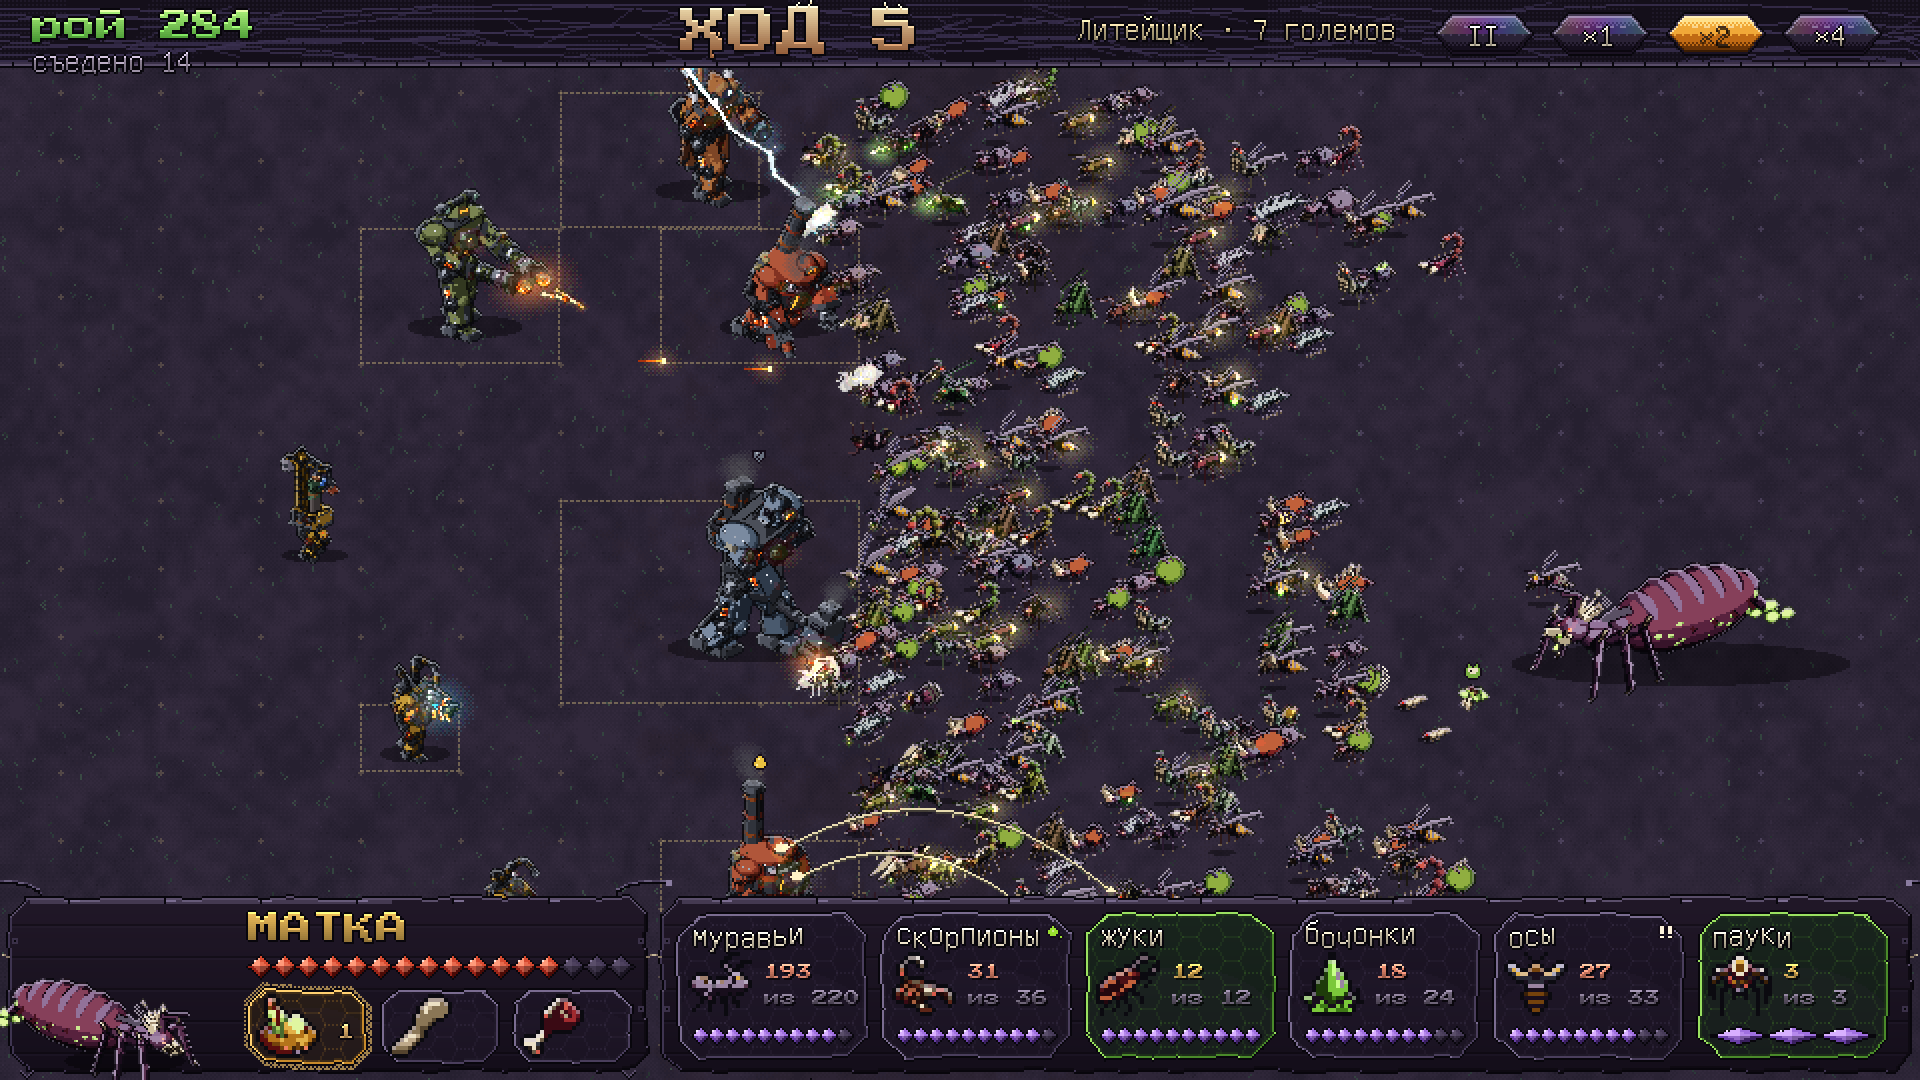
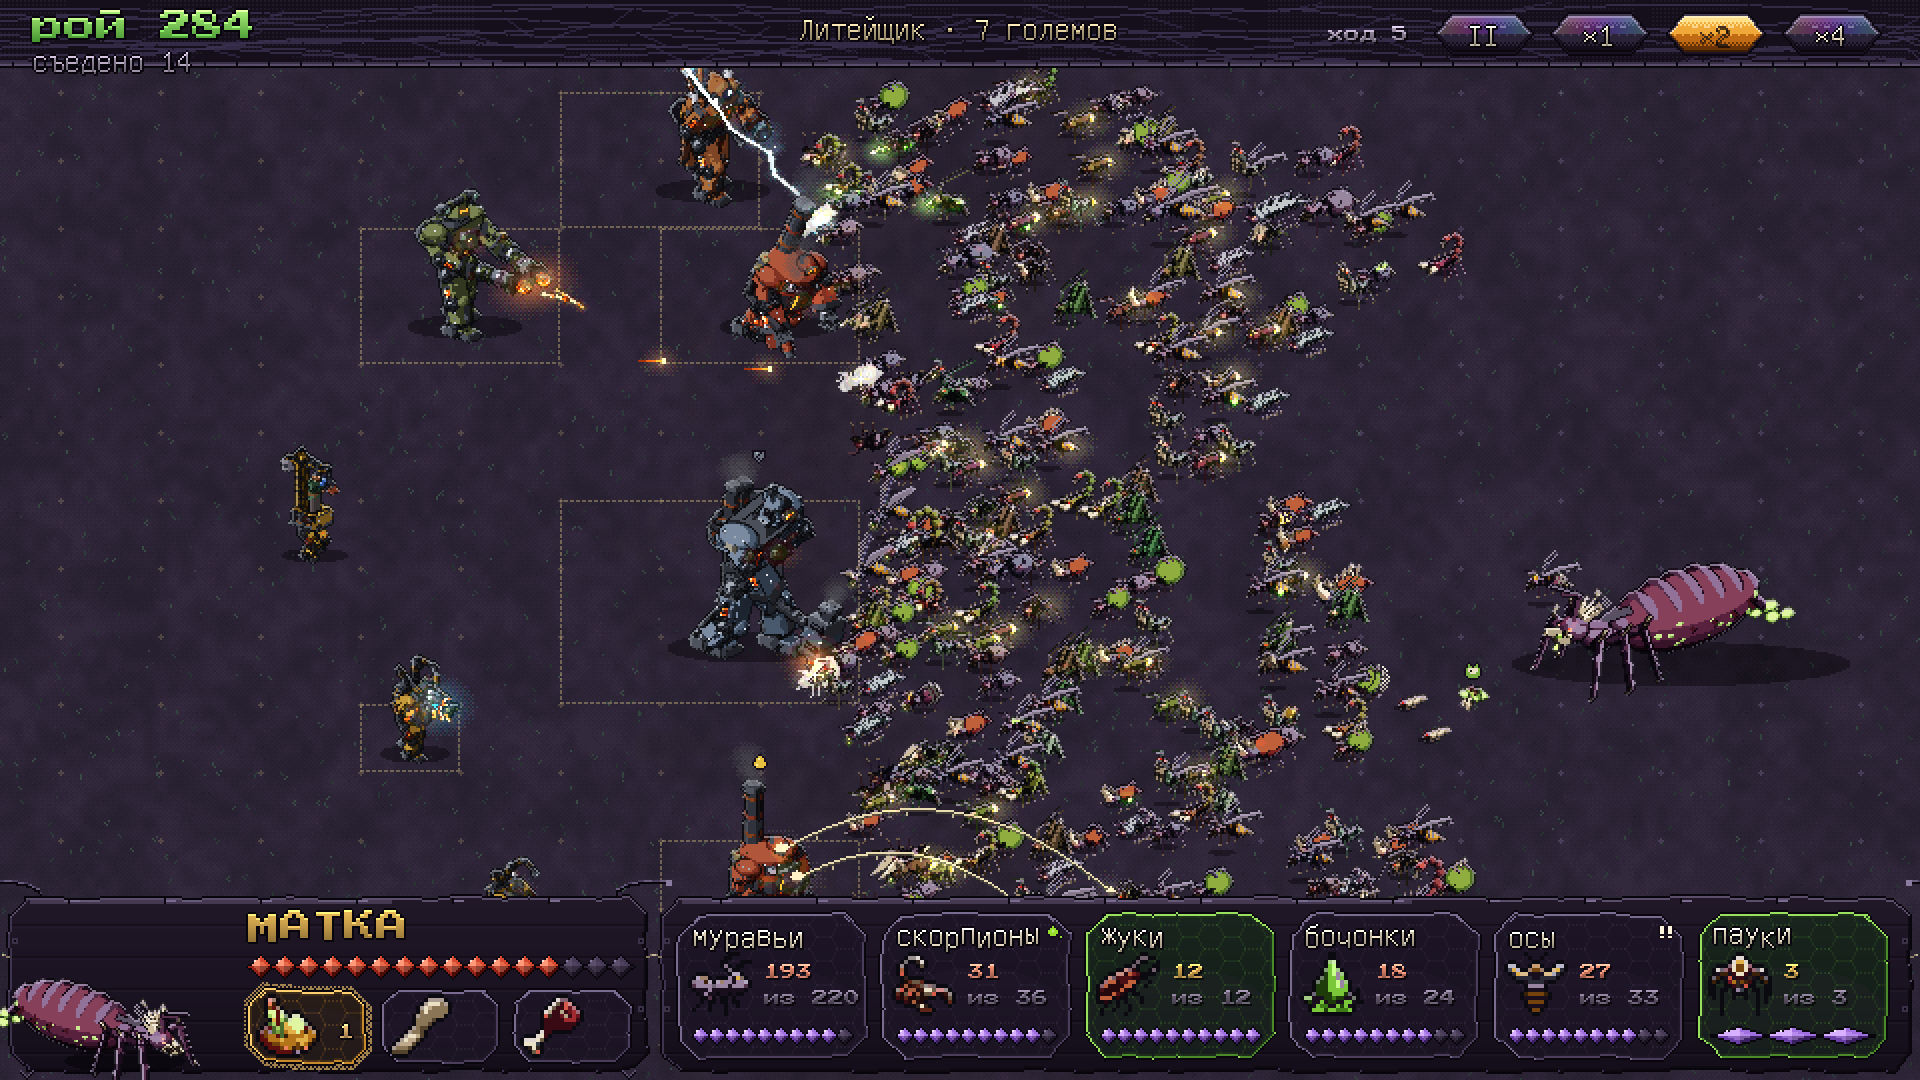
Интерфейс боя роя: номер хода мелко у кнопок скорости, враг по центру
Claude-Session: https://claude.ai/code/session_01Bh6a99SKMjjKSinDnrtssC

diff --git a/tools/sprites/swarm_hud.py b/tools/sprites/swarm_hud.py
@@ -620,12 +620,12 @@ def battle_hud():
     import battle as BT
     sc, count, ng = BT.build("Матка")
     UI.WOBBLE[0] = 1.0
-    # top: a thin wing with the turn, the swarm and the enemy, the speed
+    # top: a thin wing with the swarm, the enemy, the speed and, small beside it, the turn
     UI.wing(sc, 0, 0, WW, 34)
-    letters(sc, "ХОД 5", 400, 4, "title", 24, col=(236, 216, 170), col2=(150, 96, 60), jitter=1, drips=4, hairs=5, align="center")
     letters(sc, f"рой {count - 1}", 16, 5, "title", 16, col=(170, 240, 120), col2=(70, 150, 50))
     letters(sc, "съедено 14", 16, 22, "text", 16, col=MUTED)
-    letters(sc, f"Литейщик · {ng} големов", 700, 6, "text", 16, col=(214, 196, 150), align="right")
+    letters(sc, f"Литейщик · {ng} големов", WW / 2, 6, "text", 16, col=(214, 196, 150), align="center")
+    letters(sc, "ход 5", 706, 13, "title", 8, col=MUTED, outline=False, align="right")   # turns fly by: small, by the speed
     for k_, t in enumerate(("II", "×1", "×2", "×4")):
         x0 = 716 + k_ * 58
         UI.button(sc, x0, 6, x0 + 52, 28, "amber" if t == "×2" else "chitin")

diff --git a/docs/CONCEPT.md b/docs/CONCEPT.md
@@ -809,8 +809,8 @@
 
 ![Расстановка стаями](images/swarm_deploy.png)
 
-В бою над полем — ход, размер роя и скорость, внизу — лидер со способностями и стаи: сколько живо
-и что на них висит.
+В бою над полем — размер роя, враг и скорость (ходы идут быстро, номер хода — мелко, у кнопок
+скорости), внизу — лидер со способностями и стаи: сколько живо и что на них висит.
 
 ![Бой: интерфейс роя](images/swarm_battle_hud.png)
 
